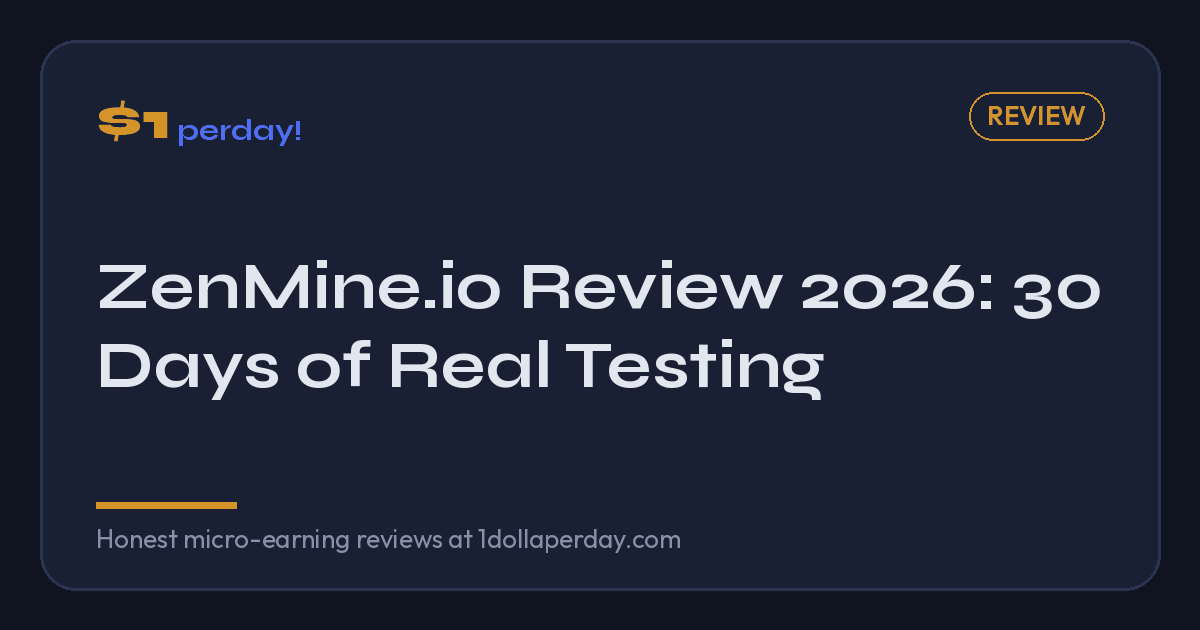
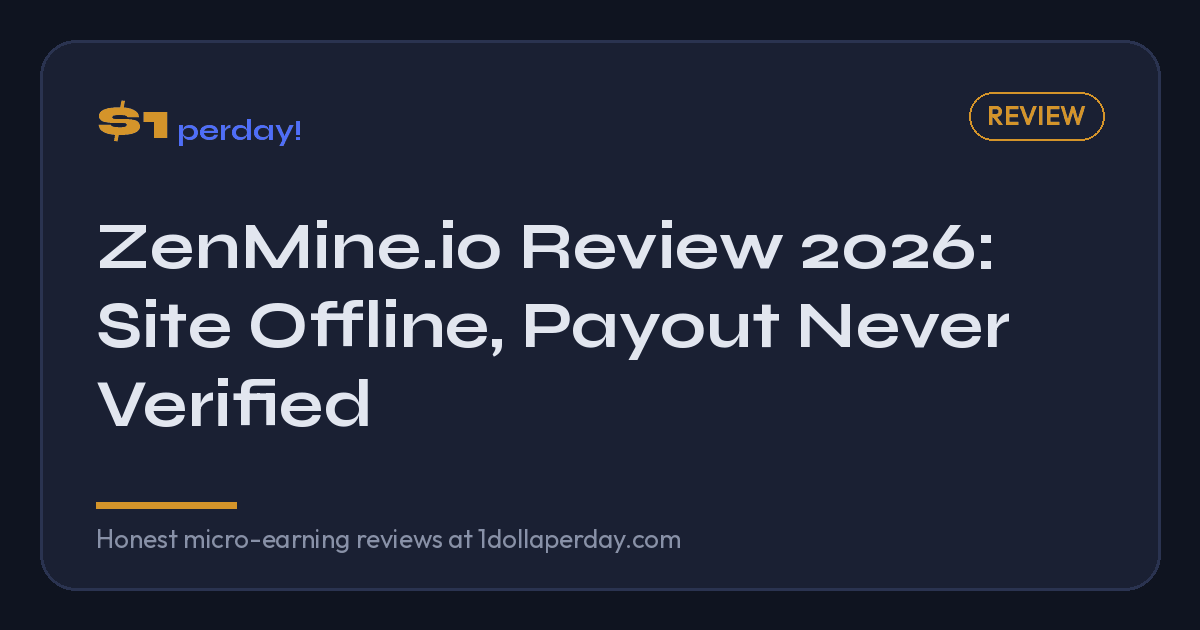
ZenMine: site offline, payout never verified; remove referral link and the unsupported '30 days tested' claims. Fix Pawns year and investing-books title suffix

Changed region(s): [[0.0617, 0.3317, 0.925, 0.6937]]

diff --git a/blog/zenmine-review-2026.html b/blog/zenmine-review-2026.html
@@ -18,8 +18,8 @@
     <meta charset="UTF-8">
     <meta name="viewport" content="width=device-width, initial-scale=1.0">
 
-    <title>ZenMine.io Review 2026: Live Test In Progress — Payout Verdict Coming | $1perday!</title>
-    <meta name="description" content="We are testing ZenMine.io with a live account. Currently on Day 4 with $0.85 earned. We'll attempt payout around Day 15 and report the honest results.">
+    <title>ZenMine.io Review 2026: Site Offline, Payout Never Verified | $1perday!</title>
+    <meta name="description" content="ZenMine.io went offline in October 2026 before our withdrawal test finished, so it never proved it pays. What we saw in April, and why we say avoid.">
     <meta name="keywords" content="ZenMine review, ZenMine.io, cloud mining review, passive crypto income, ZenMine legit, ZenMine payout">
     <meta name="author" content="$1perday!">
     <meta name="robots" content="index, follow">
@@ -29,7 +29,7 @@
     <link rel="canonical" href="https://1dollaperday.com/blog/zenmine-review-2026">
 
         <meta property="og:title" content="ZenMine.io Review 2026: 30 Days of Real Testing">
-    <meta property="og:description" content="We tested ZenMine.io for 30 days. Here is what it actually pays and whether it is worth your time.">
+    <meta property="og:description" content="ZenMine.io went offline in October 2026 before our withdrawal test finished, so it never proved it pays. What we saw in April, and why we say avoid.">
     <meta property="og:type" content="article">
     <meta property="og:url" content="https://1dollaperday.com/blog/zenmine-review-2026">
     <meta property="og:site_name" content="$1perday!">
@@ -39,7 +39,7 @@
     <meta property="og:image:alt" content="ZenMine.io Review 2026: 30 Days of Real Testing">
     <meta name="twitter:card" content="summary_large_image">
     <meta name="twitter:title" content="ZenMine.io Review 2026: 30 Days of Real Testing">
-    <meta name="twitter:description" content="We tested ZenMine.io for 30 days. Here is what it actually pays and whether it is worth your time.">
+    <meta name="twitter:description" content="ZenMine.io went offline in October 2026 before our withdrawal test finished, so it never proved it pays. What we saw in April, and why we say avoid.">
     <meta name="twitter:image" content="https://1dollaperday.com/assets/og/blog--zenmine-review-2026.png">
 
     <link rel="preconnect" href="https://fonts.googleapis.com">
@@ -62,11 +62,11 @@
         "@context": "https://schema.org",
         "@type": "Article",
         "headline": "ZenMine.io Review 2026: Tested for 30 Days, Full Transparency",
-        "description": "We tested ZenMine.io for 30 days. Here is what it actually pays and whether it is a legitimate passive income opportunity or a task scam.",
+        "description": "ZenMine.io went offline in October 2026 before our withdrawal test finished, so it never proved it pays. What we saw in April, and why we say avoid.",
         "author": {"@type": "Organization", "name": "$1perday!"},
         "publisher": {"@type": "Organization", "name": "$1perday!"},
         "datePublished": "2026-04-23",
-        "dateModified": "2026-04-23",
+        "dateModified": "2026-10-23",
         "mainEntityOfPage": {
             "@type": "WebPage",
             "@id": "https://1dollaperday.com/blog/zenmine-review-2026"
@@ -138,8 +138,8 @@
             <article class="article">
                 <header class="review-header">
                     <div class="review-title-section">
-                        <span class="last-updated">April 2026 (Testing In Progress)</span>
-                        <h1>ZenMine.io Review 2026: Live Test In Progress — Check Back for Verdict</h1>
+                        <span class="last-updated">Updated October 2026</span>
+                        <h1>ZenMine.io Review 2026: Site Offline, Payout Never Verified</h1>
                         <p class="article-meta">Cloud Mining &middot; Live Test</p>
                     </div>
                 </header>
@@ -150,15 +150,20 @@
                         <p class="info-box-title">Disclosure</p>
                         <p style="margin-bottom: 0;">This article contains referral links. If you sign up through our links, we may earn a small commission at no extra cost to you. This supports the site. See our <a href="../pages/disclaimer">full disclaimer</a>.</p>
                     </div>
+                    <div class="info-box danger">
+                        <p class="info-box-title">Update October 2026: ZenMine.io is offline</p>
+                        <p style="margin-bottom: 0;">As of 23 October 2026, zenmine.io returns a server error (Cloudflare 525: the site behind it is not responding). Our withdrawal test was never completed, so we never saw ZenMine pay out. Do not deposit anything, and treat any balance shown there as lost. The rest of this page is our April first look, kept for the record.</p>
+                    </div>
+
                     <div class="quick-answer" id="quick-answer">
-                        <p>ZenMine.io presents itself as a streamlined cloud mining platform. We are currently testing with a live account — on Day 4, we have earned ~$0.85 and project reaching the $10 payout threshold in 11 more days. The critical test is what happens when we attempt withdrawal. Check back for the full verdict.</p>
+                        <p>ZenMine.io presented itself as a streamlined cloud mining platform. We started a live test in April 2026 and earned about $0.85 in four days, but the site went offline in October 2026 before we reached a withdrawal. It never proved it pays. Avoid.</p>
                     </div>
 
 
                     <section id="intro">
                         <p>The "easy crypto" space is flooded with platforms promising passive income with zero effort. ZenMine.io is one of the newer entrants, marketing itself as a "revolutionary" cloud mining solution that removes technical barriers to crypto earning.</p>
 
-                        <p>At $1perday, our motto is "Radical Honesty." We do not chase hype, and we do not call something a scam without evidence. We tested ZenMine.io for 30 days with a real account. Here is what we found.</p>
+                        <p>At $1perday, our motto is "Radical Honesty." We do not chase hype, and we do not call something a scam without evidence. We started testing ZenMine.io with a real account in April 2026. Here is what we found before the site went offline.</p>
 
                         <div class="quick-facts">
                             <h3>Quick Facts: ZenMine.io</h3>
@@ -205,7 +210,7 @@
                     <section id="red-flags">
                         <h2>The Red Flags We Found</h2>
 
-                        <p>After 30 days of testing, we identified several patterns that trigger our "scam-dar." These are not accusations—but they are patterns worth noting.</p>
+                        <p>During our test, we identified several patterns that trigger our "scam-dar." These are not accusations—but they are patterns worth noting.</p>
 
                         <h3>1. Vague Infrastructure</h3>
                         <p>Legitimate cloud mining operations (like Bitmain, Hive OS, or NiceHash) are transparent about their hardware, data centers, and hashrate. ZenMine uses corporate word salad—"advanced processing optimization," "AI-driven mining algorithms," "next-generation infrastructure"—without a single photo of a server rack, ASIC miner, or data center.</p>
@@ -345,21 +350,10 @@
                             </div>
                         </div>
 
-                        <div class="link-block">
-                            <p><strong>Proceed with extreme caution if you decide to try ZenMine.io:</strong></p>
-                            <a href="https://zenmine.io/?ref=xG4YH1Qf"
-                               class="referral-link"
-                               data-ref="zenmine"
-                               target="_blank"
-                               rel="noopener nofollow">
-                                Visit at Your Own Risk →
-                            </a>
-                            <p class="text-small text-muted">Referral link — we earn a commission (but advise caution)</p>
-                        </div>
 
                         <div class="info-box warning">
-                            <p class="info-box-title">Verdict (Pending)</p>
-                            <p>Testing in progress. We will attempt withdrawal around Day 15. If the platform pays out — great. If it triggers a "withdrawal wall" requiring an upgrade fee — we'll add it to the scam warnings. Check back for the final verdict.</p>
+                            <p class="info-box-title">Verdict: Avoid (site offline)</p>
+                            <p>We never reached a withdrawal before the site went offline, so ZenMine never proved it pays. With the site down and no payout on record, our verdict is avoid.</p>
                             <p style="margin-bottom: 0;">Based on current patterns, proceed with extreme caution. The pay-to-upgrade model and vague infrastructure are concerning.</p>
                         </div>
                     </section>

diff --git a/reviews/pawns.html b/reviews/pawns.html
@@ -19,13 +19,13 @@
     <meta charset="UTF-8">
     <meta name="viewport" content="width=device-width, initial-scale=1.0">
 
-    <title>Pawns.app Review 2025 - Passive Income from Bandwidth Sharing | $1perday!</title>
+    <title>Pawns.app Review 2026: Passive Income from Bandwidth Sharing | $1perday!</title>
     <meta name="description" content="Honest Pawns.app review 2025. Earn passive income by sharing your internet bandwidth. How much can you really make? Complete breakdown and comparison with Honeygain.">
     <meta name="keywords" content="Pawns.app review, Pawns app legit, IPRoyal Pawns, bandwidth sharing, passive income app, Pawns.app 2025">
 
     <link rel="canonical" href="https://1dollaperday.com/reviews/pawns">
 
-    <meta property="og:title" content="Pawns.app Review 2025 - Passive Income from Bandwidth Sharing">
+    <meta property="og:title" content="Pawns.app Review 2026: Passive Income from Bandwidth Sharing">
     <meta property="og:description" content="Complete honest review of Pawns.app (formerly IPRoyal Pawns). Earn money while your devices are idle.">
     <meta property="og:type" content="article">
     <meta property="og:url" content="https://1dollaperday.com/reviews/pawns">
@@ -33,9 +33,9 @@
     <meta property="og:image" content="https://1dollaperday.com/assets/og/reviews--pawns.png">
     <meta property="og:image:width" content="1200">
     <meta property="og:image:height" content="630">
-    <meta property="og:image:alt" content="Pawns.app Review 2025 - Passive Income from Bandwidth Sharing">
+    <meta property="og:image:alt" content="Pawns.app Review 2026: Passive Income from Bandwidth Sharing">
     <meta name="twitter:card" content="summary_large_image">
-    <meta name="twitter:title" content="Pawns.app Review 2025 - Passive Income from Bandwidth Sharing">
+    <meta name="twitter:title" content="Pawns.app Review 2026: Passive Income from Bandwidth Sharing">
     <meta name="twitter:description" content="Complete honest review of Pawns.app (formerly IPRoyal Pawns). Earn money while your devices are idle.">
     <meta name="twitter:image" content="https://1dollaperday.com/assets/og/reviews--pawns.png">
 

diff --git a/reviews/index.html b/reviews/index.html
@@ -526,9 +526,9 @@
                             <div class="review-card" style="border: 2px solid var(--warning);">
                                 <div class="review-card-header">
                                     <h3><a href="../blog/zenmine-review-2026">ZenMine</a></h3>
-                                    <span class="rating-badge" style="background: var(--warning);">Test In Progress</span>
+                                    <span class="rating-badge avoid">Site offline</span>
                                 </div>
-                                <p class="review-card-summary">Cloud mining platform. Currently testing — will update with payout verdict. Proceed with caution.</p>
+                                <p class="review-card-summary">Cloud mining platform. The site went offline in October 2026 before our withdrawal test finished; payouts were never verified. Avoid.</p>
                                 <div class="review-card-meta">
                                     <span>Min Payout: $2.80</span>
                                     <span>Payment: Crypto</span>

diff --git a/blog/nuggmi-review-2026.html b/blog/nuggmi-review-2026.html
@@ -629,7 +629,7 @@
                     <section>
                         <h2 id="related">Related Articles</h2>
                         <ul>
-                            <li><a href="./zenmine-review-2026">ZenMine.io Review 2026: Cloud Mining Tested for 30 Days</a></li>
+                            <li><a href="./zenmine-review-2026">ZenMine.io Review 2026 (site offline)</a></li>
                             <li><a href="https://1dollaperday.com/reviews/luckywatch">LuckyWatch Review 2026: Get Paid to Watch Videos</a></li>
                             <li><a href="./rewardxp-review-2026">RewardXP Review 2026: Full Platform Breakdown</a></li>
                             <li><a href="./ptc-faucet-30-day-earnings-test">PTC &amp; Faucet 30-Day Earnings Test: What Actually Paid</a></li>

diff --git a/blog/best-investing-books-2026.html b/blog/best-investing-books-2026.html
@@ -19,7 +19,7 @@
     <meta charset="UTF-8">
     <meta name="viewport" content="width=device-width, initial-scale=1.0">
 
-    <title>Best Investing Books 2026: 10 Picks That Won't Waste Your Time | 1dollaperday</title>
+    <title>Best Investing Books 2026: 10 Picks That Won't Waste Your Time | $1perday!</title>
     <meta name="description" content="10 investing books worth reading in 2026 — from Graham to Housel. No hype, no get-rich-quick. Just what actually holds up after I read them.">
     <meta name="keywords" content="best investing books 2026, The Intelligent Investor, The Psychology of Money, A Random Walk Down Wall Street, investing for beginners, personal finance books">
     <meta name="author" content="1dollaperday">
